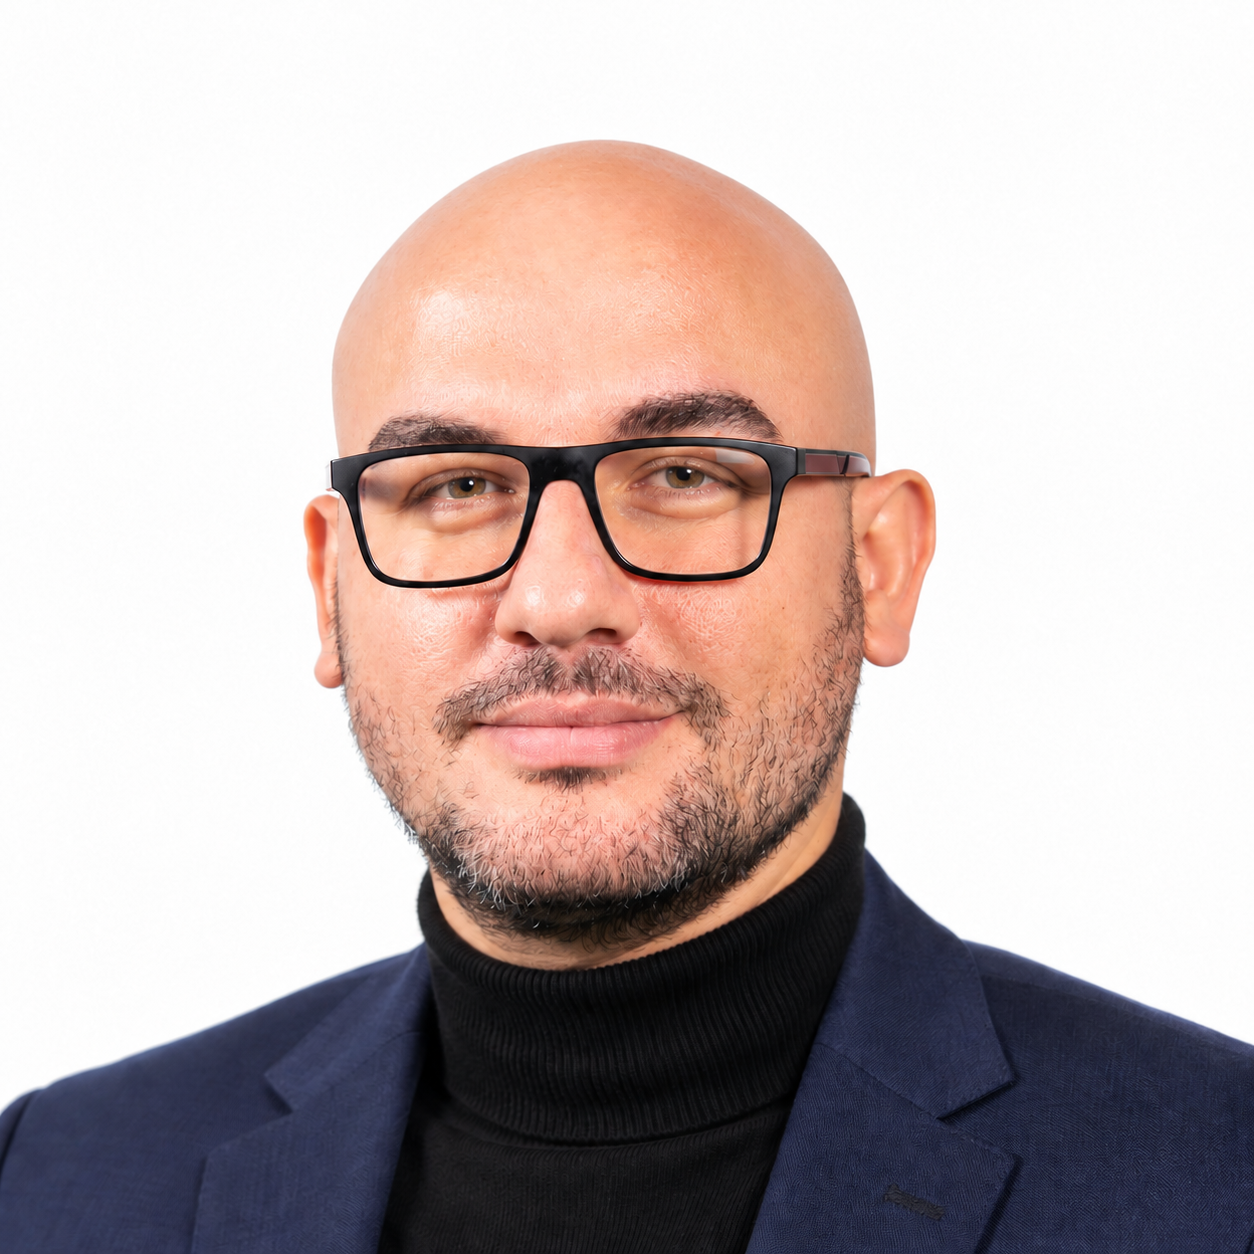
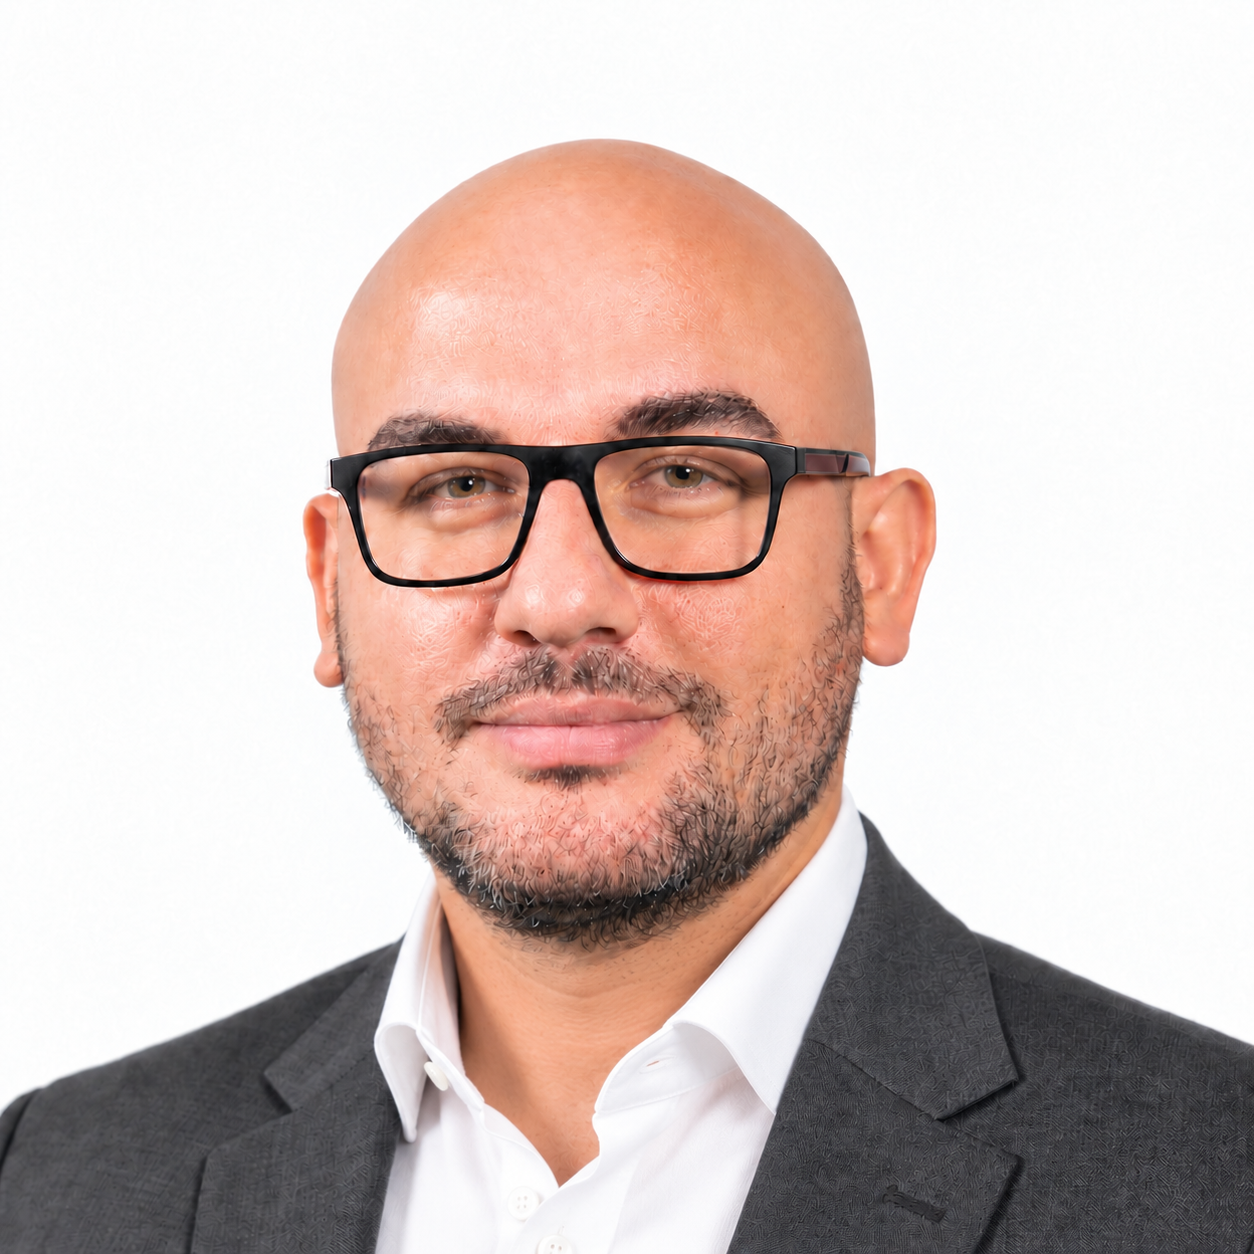
Add steering committee photos
Render photos for the steering committee on the committee and archive
pages, matching the organizing committee cards.

diff --git a/templates/committee.html b/templates/committee.html
@@ -38,7 +38,7 @@
         <div class="people-grid">
           {% for person in conf.steering_committee %}
           <div class="person-card">
-            <div class="person-avatar" style="background:linear-gradient(135deg,var(--teal),var(--navy-mid))">{{ initials(person.name) }}</div>
+            {{ person_avatar({'name': person.name, 'photo': person.photo, 'initials': initials(person.name)}, teal=true, depth=depth) }}
             <div class="person-name">{{ person.name }}</div>
             <div class="person-affil">{{ sc_affiliation(person, conf.meta.edition) }}
               {% if person.note %}<br><span style="color:var(--person-link);font-size:0.78rem">{{ person.note }}</span>{% endif %}

diff --git a/templates/archive.html b/templates/archive.html
@@ -101,7 +101,7 @@
         <div class="people-grid">
           {% for person in conf.steering_committee %}
           <div class="person-card">
-            <div class="person-avatar">{{ initials(person.name) }}</div>
+            {{ person_avatar({'name': person.name, 'photo': person.photo, 'initials': initials(person.name)}, depth=depth) }}
             <div class="person-name">{{ person.name }}</div>
             <div class="person-affil">{{ sc_affiliation(person, archive.year) }}{% if person.note %}<br><span style="font-size:0.78rem;color:var(--teal)">{{ person.note }}</span>{% endif %}</div>
           </div>
